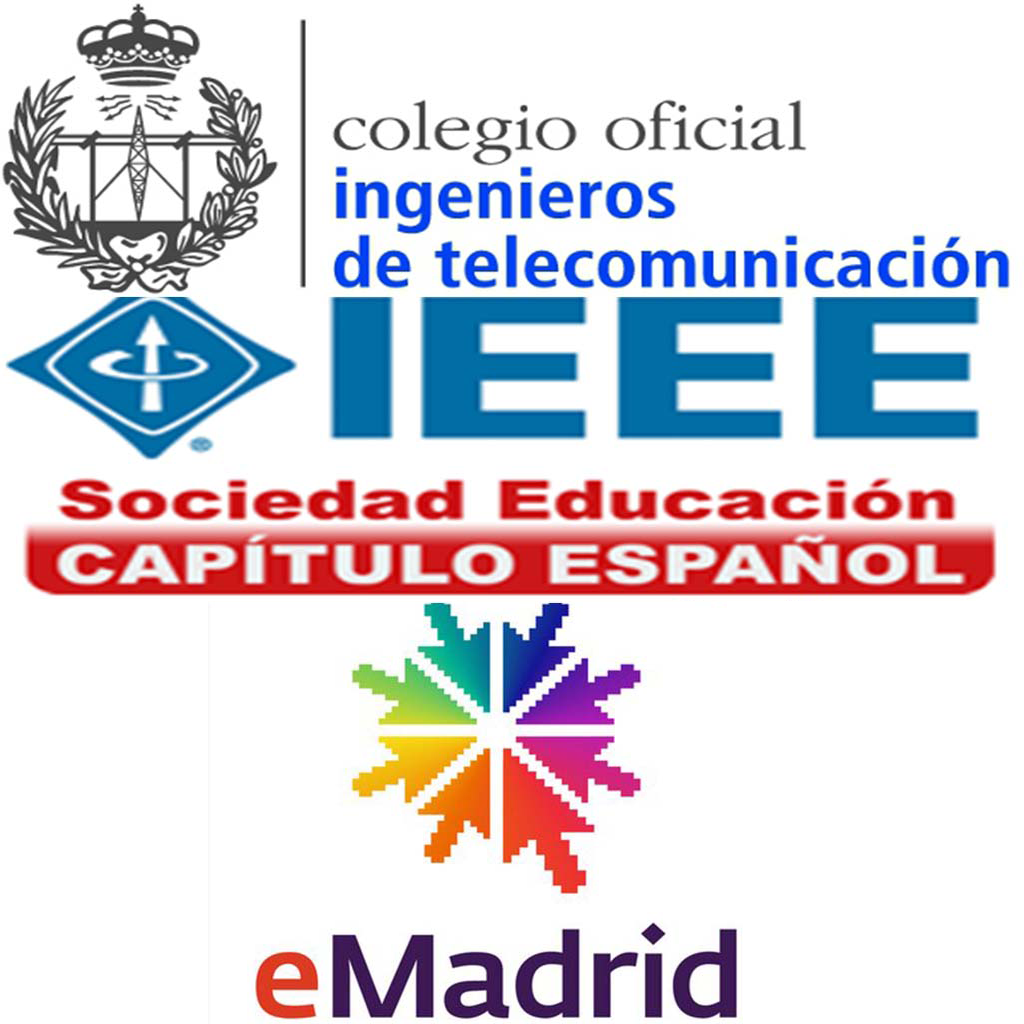
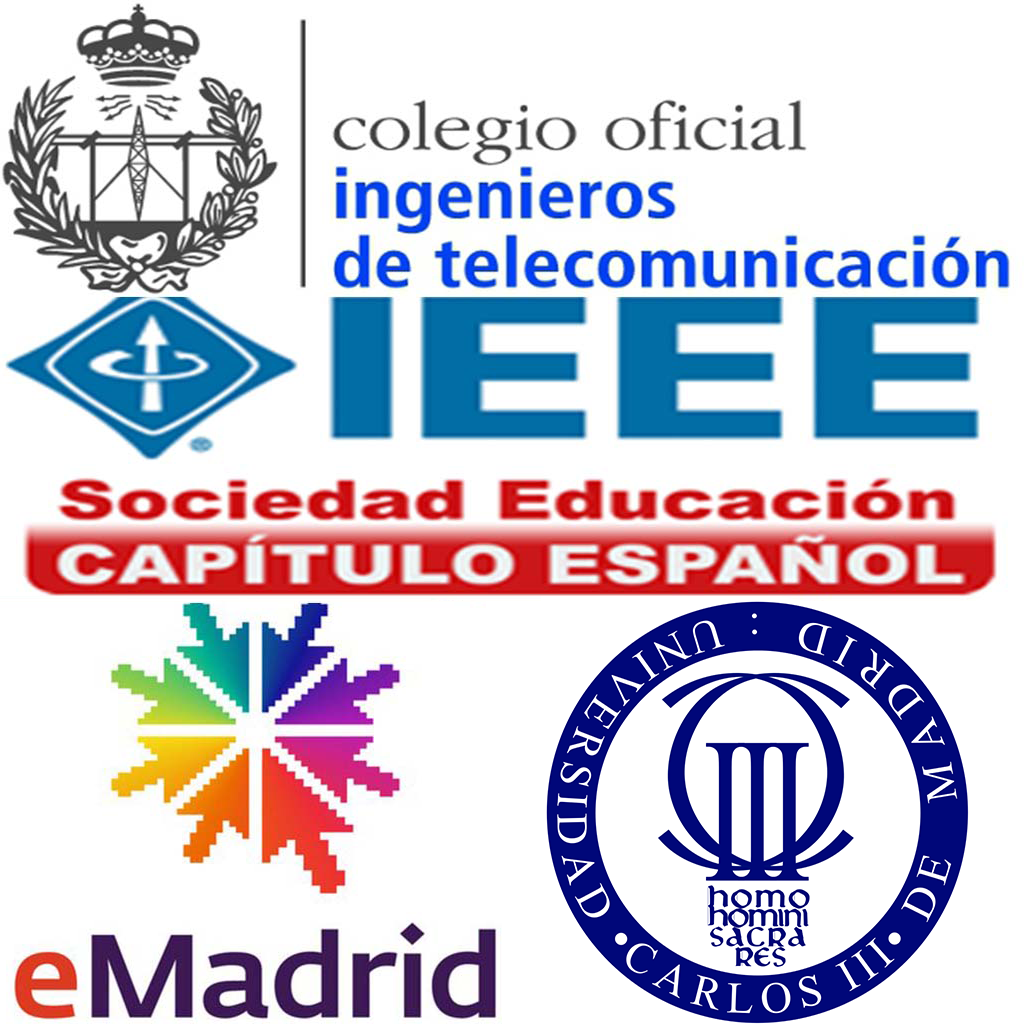
minor additions

Changed region(s): [[0.0, 0.5625, 0.9688, 1.0]]

diff --git a/index.html b/index.html
@@ -362,7 +362,7 @@
                                                 <div class="date">2018</div>
                                                 <div class="circle"></div>
                                                 <div class="data">
-                                                    <div class="subject">Three Awards to the Best PhD Thesis</div>
+                                                    <div class="subject">Four Awards to the Best PhD Thesis</div>
                                                     <div class="text row">
                                                         <div class="col-md-2">
                                                             <img alt="image" class="thumbnail img-responsive" src="img/personal/awards_phd.png" >
@@ -370,6 +370,7 @@
                                                         <div class="col-md-10">
                                                 <ul>
                                                     <li>Best PhD thesis award in "Technology and Education" sponsored by Telefonica Foundation, granted by the Official College of Telecommunications Engineers [country-wide]</li> 
+                                                    <li>Extraordinary Doctoral Award from Universidad Carlos III of Madrid to one of the best Ph.D. Thesis in Telematics Engineering during years 2016-2018 [degree-wide]</li>
                                                     <li>Award of the Spanish Chapter of the IEEE Education Society for Best doctoral thesis in technological applications in the field of education [country-wide]</li>
                                                     <li>eMadrid 2018 award to the best PhD thesis in research or development of educational technologies [country-wide]</li>
                                                 </ul>
